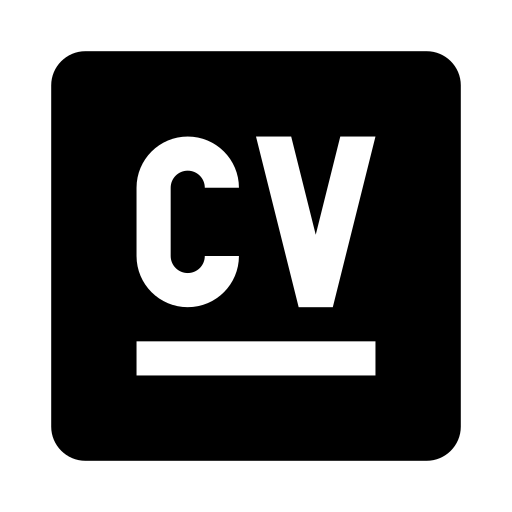
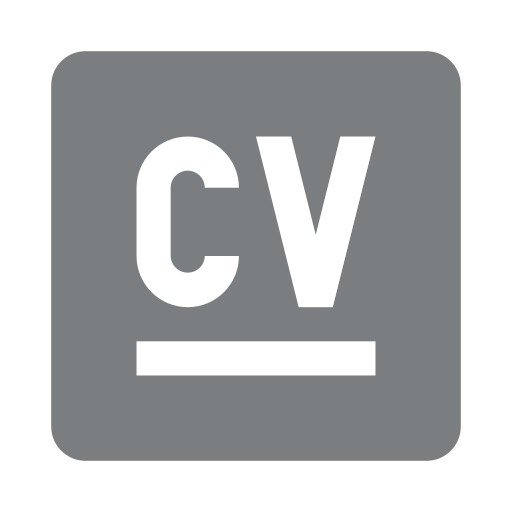
x

diff --git a/_includes/nav.html b/_includes/nav.html
@@ -23,7 +23,7 @@
                 <a href="https://github.com/yeonsunYang"><i class="head-icon fab fa-github"></i></a>
             </span>
             <span class="hint--bottom bottom-link" aria-label="Curriculum vitae">
-                <a href="/assets/materials/cv.pdf"><i class="head-icon"><img src="/assets/images/cv.png" style="width: 20px; height: 20px; vertical-align: middle; color: #7a7e81;"></i></a>
+                <a href="/assets/materials/cv.pdf"><i class="head-icon"><img src="/assets/images/cv.png" style="width: 40px; height: 40px; vertical-align: middle;"></i></a>
             </span>
             <!--cv 하나 더 넣기-->
         </div>
